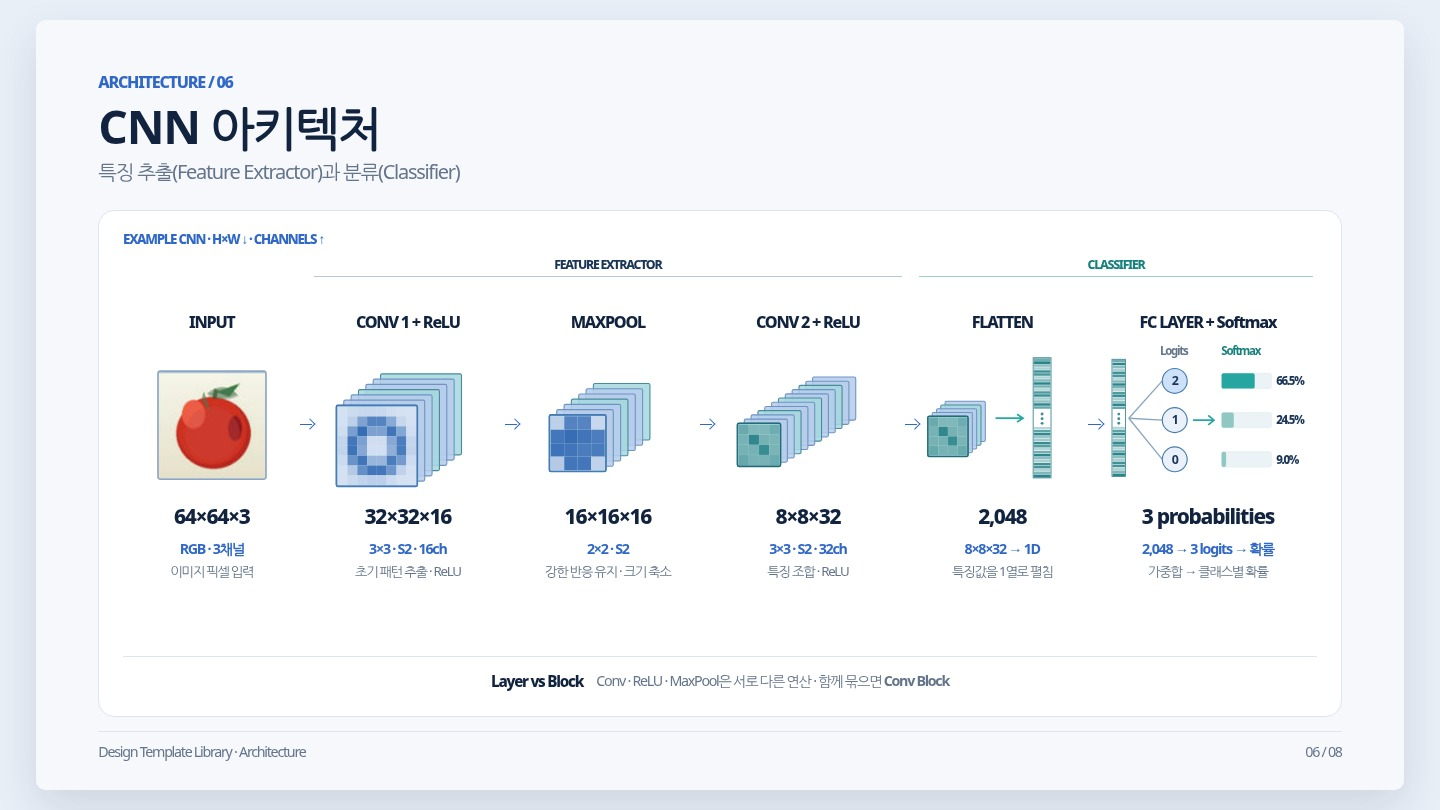
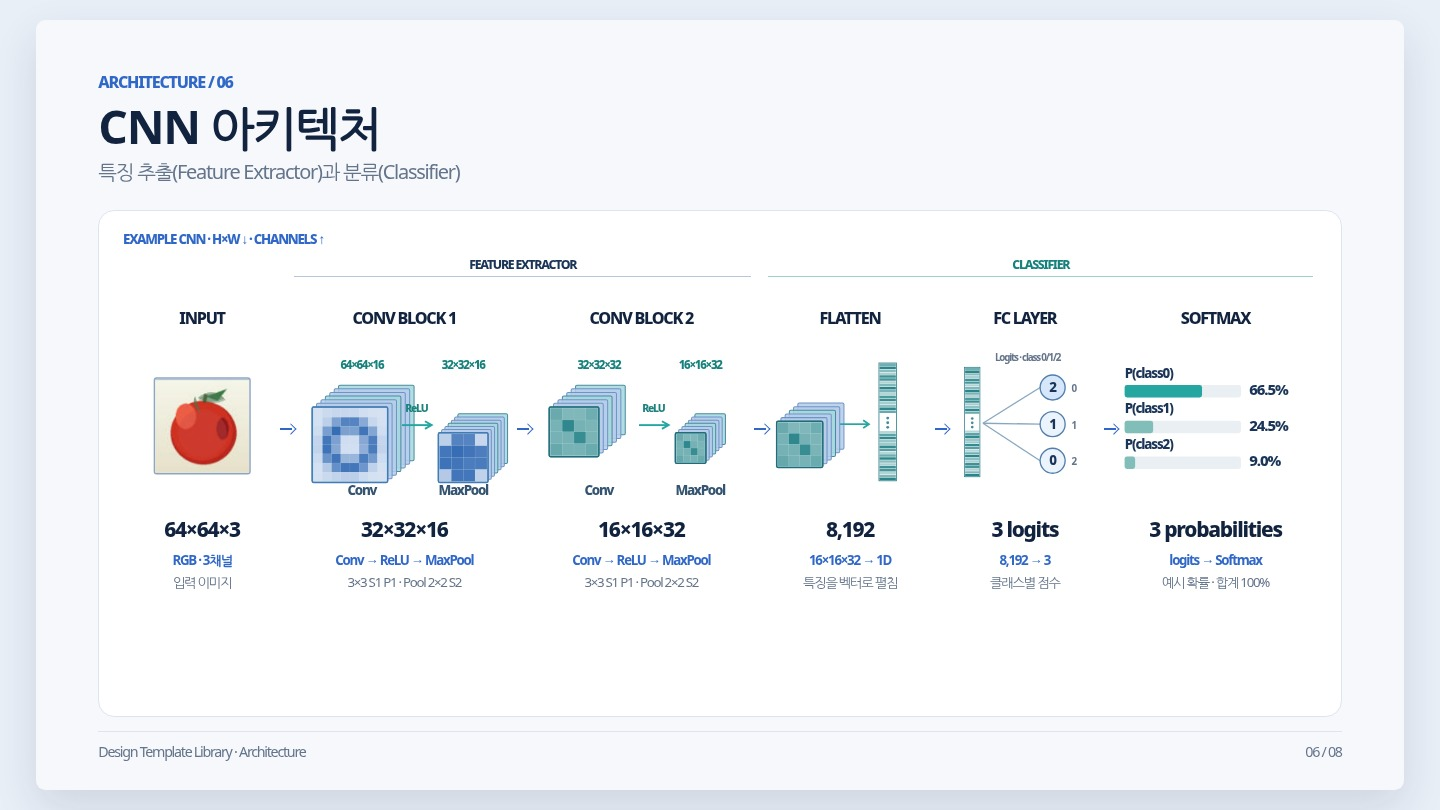
feat(architecture): visualize two Conv-ReLU-MaxPool blocks and class probabilities

diff --git a/templates/html/architecture.html b/templates/html/architecture.html
@@ -16,7 +16,7 @@
 .architecture-slide .arch-eyebrow {font-size:14px; font-weight:800; color:var(--blue);}
 /* Functional partition: input / feature extractor / classifier. */
 .architecture-slide .arch-phase-band {
-  display:grid; grid-template-columns:1.05fr 1.16fr 1.10fr 1.16fr 1.03fr 1.30fr;
+  display:grid; grid-template-columns:1.04fr 1.52fr 1.52fr 1.13fr 1.05fr 1.35fr;
   gap:18px; padding:0 4px; margin:9px 0 -7px;
 }
 .architecture-slide .arch-phase-band span {
@@ -26,56 +26,47 @@
 .architecture-slide .arch-phase-band span::after {
   content:""; display:block; height:1px; margin-top:3px; background:#b7c6db;
 }
-.architecture-slide .arch-phase-band .arch-extractor {grid-column:2/5;}
-.architecture-slide .arch-phase-band .arch-classifier {grid-column:5/7; color:#17817d;}
+.architecture-slide .arch-phase-band .arch-extractor {grid-column:2/4;}
+.architecture-slide .arch-phase-band .arch-classifier {grid-column:4/7; color:#17817d;}
 .architecture-slide .arch-phase-band .arch-classifier::after {background:#9dd2ca;}
 .architecture-slide .arch-pipeline {
-  display:grid; grid-template-columns:1.05fr 1.16fr 1.10fr 1.16fr 1.03fr 1.30fr;
-  gap:18px; align-items:start; margin:18px 0 14px; padding:0 4px; flex:1; min-height:0;
+  display:grid; grid-template-columns:1.04fr 1.52fr 1.52fr 1.13fr 1.05fr 1.35fr;
+  gap:18px; align-items:start; margin:30px 0 10px; padding:0 4px; flex:1; min-height:0;
 }
 .architecture-slide .arch-stage {
   min-width:0; position:relative; display:flex; flex-direction:column;
-  align-items:center; text-align:center; margin-top:25px;
+  align-items:center; text-align:center; margin-top:8px;
 }
 .architecture-slide .arch-stage:not(:last-child)::after {
-  content:""; position:absolute; top:118px; right:-16px; width:13px;
+  content:""; position:absolute; top:128px; right:-16px; width:13px;
   height:1.8px; background:var(--blue);
 }
 .architecture-slide .arch-stage:not(:last-child)::before {
-  content:""; position:absolute; top:114px; right:-18px; width:7px; height:7px;
+  content:""; position:absolute; top:124px; right:-18px; width:7px; height:7px;
   border-top:1.8px solid var(--blue); border-right:1.8px solid var(--blue);
   transform:rotate(45deg);
 }
 .architecture-slide .arch-title {font-size:17px; font-weight:800; color:var(--navy); min-height:26px; white-space:nowrap;}
-.architecture-slide .arch-graphic {display:block; width:100%; height:177px; overflow:visible;}
+.architecture-slide .arch-graphic {display:block; width:100%; height:195px; overflow:visible;}
 .architecture-slide .arch-graphic svg {display:block; width:100%; height:100%;}
 .architecture-slide .arch-shape {font-size:22px; font-weight:800; color:var(--navy); white-space:nowrap; line-height:1.2;}
-.architecture-slide .arch-operation {font-size:15px; font-weight:700; color:var(--blue); margin-top:10px; white-space:nowrap;}
+.architecture-slide .arch-operation {font-size:14px; font-weight:700; color:var(--blue); margin-top:10px; white-space:nowrap;}
 .architecture-slide .arch-explain {font-size:14px; color:var(--muted); margin-top:5px; line-height:1.3; white-space:nowrap;}
-/* Only the relevant lesson note remains; descriptions sit under their own stages. */
-.architecture-slide .arch-block-note {
-  display:flex; align-items:center; justify-content:center; flex-wrap:wrap;
-  column-gap:14px; row-gap:3px;
-  border-top:1px solid var(--border); padding:15px 4px 3px;
-  color:var(--muted); font-size:15px; line-height:1.4;
-}
-.architecture-slide .arch-block-note strong {
-  color:var(--navy); font-size:16px; font-weight:800;
-}
+
+
 @media(max-width:900px) {
+  .architecture-slide.reference-slide {zoom:1; width:100%; height:auto; aspect-ratio:auto; overflow:visible;}
   .architecture-slide .arch-phase-band {display:none;}
   .architecture-slide .content > .ref-card {height:auto; overflow:visible; padding:21px;}
   .architecture-slide .arch-pipeline {grid-template-columns:repeat(3,minmax(0,1fr));gap:24px 13px;margin:20px 0 19px;}
   .architecture-slide .arch-stage:not(:last-child)::before,.architecture-slide .arch-stage:not(:last-child)::after {display:none;}
-  .architecture-slide .arch-graphic {height:150px;}
-  .architecture-slide .arch-title {font-size:16px;}
+  .architecture-slide .arch-graphic {height:155px;}
+  .architecture-slide .arch-title {font-size:15px;}
   .architecture-slide .arch-shape {font-size:20px;}
   .architecture-slide .arch-operation {font-size:14px;}
   .architecture-slide .arch-explain {font-size:13px;}
   .architecture-slide .arch-stage {margin-top:0;}
-  .architecture-slide .arch-block-note {font-size:13px; gap:6px;}
-  .architecture-slide .arch-block-note strong {font-size:14px;}
-}
+  
 @media(max-width:520px) {
   .architecture-slide .content > .ref-card {padding:17px 15px;}
   .architecture-slide .arch-pipeline {grid-template-columns:1fr; gap:10px; margin:13px 0 18px; padding:0;}
@@ -95,9 +86,7 @@
   .architecture-slide .arch-shape {grid-column:2;grid-row:2;font-size:20px;}
   .architecture-slide .arch-operation {grid-column:2;grid-row:3;margin:0;font-size:13px;white-space:normal;}
   .architecture-slide .arch-explain {grid-column:2;grid-row:4;font-size:12px;white-space:normal;}
-  .architecture-slide .arch-block-note {padding:12px 5px 2px; font-size:12px; text-align:center;}
-  .architecture-slide .arch-block-note strong {font-size:13px;}
-}
+  
 @media print {.architecture-slide .content > .ref-card {overflow:hidden;}}
 </style>
 </head>
@@ -113,35 +102,31 @@
       <span class="arch-extractor">FEATURE EXTRACTOR</span>
       <span class="arch-classifier">CLASSIFIER</span>
     </div>
-    <div class="arch-pipeline" aria-label="Input → Conv1 → ReLU → MaxPool → Conv2 → ReLU → Flatten → FC Layer → Softmax">
+    <div class="arch-pipeline" aria-label="Input → Conv Block 1(Conv, ReLU, MaxPool) → Conv Block 2(Conv, ReLU, MaxPool) → Flatten → FC Layer → Softmax">
       <article class="arch-stage" aria-label="Input 단일 RGB 이미지, 64×64×3">
         <div class="arch-title">INPUT</div><div class="arch-graphic" data-art="input"></div>
-        <div class="arch-shape">64×64×3</div><div class="arch-operation">RGB · 3채널</div><div class="arch-explain">이미지 픽셀 입력</div>
+        <div class="arch-shape">64×64×3</div><div class="arch-operation">RGB · 3채널</div><div class="arch-explain">입력 이미지</div>
       </article>
-      <article class="arch-stage" aria-label="Conv1 + ReLU, kernel 3, stride 2, padding 1, 32×32×16">
-        <div class="arch-title" data-group="FEATURE EXTRACTOR">CONV 1 + ReLU</div><div class="arch-graphic" data-art="conv1"></div>
-        <div class="arch-shape">32×32×16</div><div class="arch-operation">3×3 · S2 · 16ch</div><div class="arch-explain">초기 패턴 추출 · ReLU</div>
+      <article class="arch-stage" aria-label="Conv Block 1: Conv 3×3 stride 1 padding 1 16 channels, ReLU, MaxPool 2×2 stride 2. Conv output 64×64×16, Block output 32×32×16">
+        <div class="arch-title" data-group="FEATURE EXTRACTOR">CONV BLOCK 1</div><div class="arch-graphic" data-art="block1"></div>
+        <div class="arch-shape">32×32×16</div><div class="arch-operation">Conv → ReLU → MaxPool</div><div class="arch-explain">3×3 S1 P1 · Pool 2×2 S2</div>
       </article>
-      <article class="arch-stage" aria-label="MaxPool 2×2, stride 2, 16×16×16">
-        <div class="arch-title">MAXPOOL</div><div class="arch-graphic" data-art="pool"></div>
-        <div class="arch-shape">16×16×16</div><div class="arch-operation">2×2 · S2</div><div class="arch-explain">강한 반응 유지 · 크기 축소</div>
+      <article class="arch-stage" aria-label="Conv Block 2: Conv 3×3 stride 1 padding 1 32 channels, ReLU, MaxPool 2×2 stride 2. Conv output 32×32×32, Block output 16×16×32">
+        <div class="arch-title">CONV BLOCK 2</div><div class="arch-graphic" data-art="block2"></div>
+        <div class="arch-shape">16×16×32</div><div class="arch-operation">Conv → ReLU → MaxPool</div><div class="arch-explain">3×3 S1 P1 · Pool 2×2 S2</div>
       </article>
-      <article class="arch-stage" aria-label="Conv2 + ReLU, kernel 3, stride 2, padding 1, 8×8×32">
-        <div class="arch-title">CONV 2 + ReLU</div><div class="arch-graphic" data-art="conv2"></div>
-        <div class="arch-shape">8×8×32</div><div class="arch-operation">3×3 · S2 · 32ch</div><div class="arch-explain">특징 조합 · ReLU</div>
-      </article>
-      <article class="arch-stage" aria-label="Flatten: 8×8×32의 모든 값을 펼쳐 2048차원 1D 벡터 생성">
+      <article class="arch-stage" aria-label="Flatten 16×16×32 특징을 8192차원 벡터로 변환">
         <div class="arch-title" data-group="CLASSIFIER">FLATTEN</div><div class="arch-graphic" data-art="flatten"></div>
-        <div class="arch-shape">2,048</div><div class="arch-operation">8×8×32 → 1D</div><div class="arch-explain">특징값을 1열로 펼침</div>
+        <div class="arch-shape">8,192</div><div class="arch-operation">16×16×32 → 1D</div><div class="arch-explain">특징을 벡터로 펼침</div>
       </article>
-      <article class="arch-stage" aria-label="Fully Connected Layer: 2048차원 벡터를 3개 logits로 변환, Softmax로 각 클래스 확률 산출">
-        <div class="arch-title">FC LAYER + Softmax</div><div class="arch-graphic" data-art="linear"></div>
-        <div class="arch-shape">3 probabilities</div><div class="arch-operation">2,048 → 3 logits → 확률</div><div class="arch-explain">가중합 → 클래스별 확률</div>
+      <article class="arch-stage" aria-label="FC Layer: 8192차원 입력을 3개 logits로 변환. 예시 값 2, 1, 0은 클래스 0, 1, 2에 대응">
+        <div class="arch-title">FC LAYER</div><div class="arch-graphic" data-art="fc"></div>
+        <div class="arch-shape">3 logits</div><div class="arch-operation">8,192 → 3</div><div class="arch-explain">클래스별 점수</div>
       </article>
-    </div>
-    <div class="arch-block-note">
-      <strong>Layer vs Block</strong>
-      <span>Conv · ReLU · MaxPool은 서로 다른 연산 · 함께 묶으면 <b>Conv Block</b></span>
+      <article class="arch-stage" aria-label="Softmax: 3개 logits를 클래스 0, 1, 2 확률로 변환. 예시 출력 P(class0) 66.5퍼센트, P(class1) 24.5퍼센트, P(class2) 9.0퍼센트">
+        <div class="arch-title">SOFTMAX</div><div class="arch-graphic" data-art="softmax"></div>
+        <div class="arch-shape">3 probabilities</div><div class="arch-operation">logits → Softmax</div><div class="arch-explain">예시 확률 · 합계 100%</div>
+      </article>
     </div>
   </section></div>
   <footer class="footer"><span>Design Template Library · Architecture</span><span>06 / 08</span></footer>
@@ -159,7 +144,8 @@
     return node;
   }
   function makeSvg(container, label) {
-    const viewBox=container.dataset.art==='linear'?'0 0 220 160':'0 0 170 160';
+    const viewBox=['block1','block2'].includes(container.dataset.art)?'0 0 230 165':
+      container.dataset.art==='softmax'?'0 0 235 165':'0 0 170 165';
     const svg=el('svg',{viewBox,role:'img','aria-label':label},container);
     const title=el('title',{},svg); title.textContent=label;
     return svg;
@@ -208,7 +194,7 @@
       fill:'none',stroke:'#317d8d','stroke-width':.85},svg);
   }
   /* Long feature vectors use an explicit omission break;
-     the semantic dimension is 8*8*32 = 2,048, not the number of drawn cells. */
+     the semantic dimension is 16*16*32 = 8,192, not the number of drawn cells. */
   function drawLongVector(svg,x,y,width=17) {
     const cellH=3.05;
     for(let i=0;i<34;i++) {
@@ -223,6 +209,27 @@
     el('rect',{x:x-.6,y:y-.6,width:width+1.2,height:122.5,
       fill:'none',stroke:'#317d8d','stroke-width':.85},svg);
   }
+  function drawBlock(svg,{convSize,poolSize,channels,convShape,poolShape,variant,data}) {
+    // S1/P1 convolution preserves H,W; only max pooling halves H,W.
+    const sx=19, sy=65;
+    drawStack(svg,{x:sx,y:sy,size:convSize,n:7,dx:4.6,dy:3.8,data,variant});
+    const px=151,py=92;
+    drawStack(svg,{x:px,y:py,size:poolSize,n:7,dx:3.4,dy:3.3,
+      data:variant==='low'?pooled:deep,variant});
+    el('path',{d:'M113 84 H143',fill:'none',stroke:'#26A6A1','stroke-width':2},svg);
+    el('path',{d:'M137 80 L144 84 L137 88',fill:'none',stroke:'#26A6A1','stroke-width':2},svg);
+    const mid=el('text',{x:128,y:70,fill:'#1B817c','font-size':11,'font-weight':800,
+      'text-anchor':'middle'},svg);
+    mid.textContent='ReLU';
+    [[71,'Conv'],[177,'MaxPool']].forEach(([x,label])=>{
+      const t=el('text',{x,y:157,fill:'#355471','font-size':14,'font-weight':800,
+        'text-anchor':'middle'},svg);t.textContent=label;
+    });
+    [[71,convShape],[177,poolShape]].forEach(([x,label])=>{
+      const t=el('text',{x,y:25,fill:'#17817d','font-size':12,'font-weight':800,
+        'text-anchor':'middle'},svg);t.textContent=label;
+    });
+  }
   const handlers={
     input(svg) {
       el('rect',{x:31,y:31,width:108,height:108,rx:2.5,fill:'#f2f6fa',stroke:'#8fa6c3','stroke-width':1.7},svg);
@@ -231,51 +238,47 @@
       el('path',{d:'M83 70 Q72 59 77 51 M80 53 Q97 40 110 54 Q94 62 80 53Z',fill:'#487752','fill-opacity':.4},svg);
       el('circle',{cx:85,cy:93,r:27,fill:'#cc4d47','fill-opacity':.18},svg);
     },
-    conv1(svg) {drawStack(svg,{x:17,y:66,size:77,n:7,dx:7,dy:5,data:activations,variant:'low'});},
-    pool(svg) {drawStack(svg,{x:29,y:75,size:54,n:7,dx:7,dy:5,data:pooled,variant:'low'});},
-    conv2(svg) {drawStack(svg,{x:18,y:83,size:41,n:12,dx:6.5,dy:4,data:deep,variant:'deep'});},
+    block1(svg) {drawBlock(svg,{convSize:79,poolSize:52,channels:16,convShape:'64×64×16',poolShape:'32×32×16',variant:'low',data:activations});},
+    block2(svg) {drawBlock(svg,{convSize:52,poolSize:32,channels:32,convShape:'32×32×32',poolShape:'16×16×32',variant:'deep',data:deep});},
     flatten(svg) {
-      drawStack(svg,{x:9,y:76,size:41,n:5,dx:4.4,dy:3.8,data:deep,variant:'deep'});
-      el('path',{d:'M78 78 H105',stroke:colors.teal,'stroke-width':1.8,fill:'none'},svg);
-      el('path',{d:'M100 74 L106 78 L100 82',fill:'none',stroke:colors.teal,'stroke-width':1.8},svg);
-      drawLongVector(svg,117,17,17);
+      drawStack(svg,{x:9,y:80,size:48,n:6,dx:4.4,dy:3.8,data:deep,variant:'deep'});
+      el('path',{d:'M75 83 H104',stroke:colors.teal,'stroke-width':1.8,fill:'none'},svg);
+      el('path',{d:'M99 79 L105 83 L99 87',fill:'none',stroke:colors.teal,'stroke-width':1.8},svg);
+      drawLongVector(svg,116,20,17);
     },
-    linear(svg) {
-      // The 2,048D input is drawn schematically with an omission break.
-      drawLongVector(svg,10,17,13);
-      const ys=[39,80,121];
-      const logits=[2,1,0];
-      const exponentials=logits.map(z=>Math.exp(z));
-      const total=exponentials.reduce((a,b)=>a+b,0);
-      const probabilities=exponentials.map(e=>e/total);
-      const label=el('text',{x:74,y:12,'text-anchor':'middle',
-        fill:'#64748B','font-size':12,'font-weight':700},svg);
-      label.textContent='Logits';
+    fc(svg) {
+      drawLongVector(svg,18,20,16);
+      const ys=[42,83,124];
       ys.forEach((y,i)=>{
-        el('path',{d:`M27 78 L62 ${y}`,stroke:'#8aa7c0',
-          'stroke-width':1.4,fill:'none'},svg);
-        el('circle',{cx:75,cy:y,r:13,fill:i===0?'#cee1fa':'#eaf1fb',
-          stroke:'#497cac','stroke-width':1.2},svg);
-        const t=el('text',{x:75,y:y+4.5,fill:'#1B3558',
-          'text-anchor':'middle','font-size':13,'font-weight':700},svg);
-        t.textContent=`${logits[i]}`;
+        el('path',{d:`M38 82 L102 ${y}`,stroke:'#8aa7c0','stroke-width':1.45,fill:'none'},svg);
+        el('circle',{cx:116,cy:y,r:14,fill:i===0?'#d6e6fb':'#ebf3fc',
+          stroke:'#527dae','stroke-width':1.5},svg);
+        const num=el('text',{x:116,y:y+5,fill:'#1B3558','text-anchor':'middle',
+          'font-size':15,'font-weight':800},svg);
+        num.textContent=String([2,1,0][i]);
+        const lbl=el('text',{x:137,y:y+5,fill:'#64748B',
+          'font-size':11,'font-weight':700},svg);
+        lbl.textContent=String(i);
       });
-      el('path',{d:'M94 80 H115',stroke:'#26A6A1',
-        'stroke-width':1.8,fill:'none'},svg);
-      el('path',{d:'M110 75 L116 80 L110 85',
-        stroke:'#26A6A1','stroke-width':1.8,fill:'none'},svg);
-      const op=el('text',{x:144,y:12,'text-anchor':'middle',
-        fill:'#17817d','font-size':12,'font-weight':700},svg);
-      op.textContent='Softmax';
-      probabilities.forEach((p,i)=>{
+      const a=el('text',{x:88,y:12,'text-anchor':'middle',fill:'#64748B',
+        'font-size':11,'font-weight':700},svg);
+      a.textContent='Logits · class 0/1/2';
+    },
+    softmax(svg) {
+      const logits=[2,1,0];
+      const e=logits.map(Math.exp);
+      const total=e.reduce((a,b)=>a+b,0);
+      const probabilities=e.map(x=>x/total);
+      const ys=[39,82,125];
+      probabilities.forEach((prob,i)=>{
         const y=ys[i];
-        el('rect',{x:124,y:y-8,width:52,height:16,rx:2,
-          fill:'#ecf3f6',stroke:'#dce6eb','stroke-width':.5},svg);
-        el('rect',{x:124,y:y-8,width:52*p,height:16,rx:2,
-          fill:i===0?'#26A6A1':'#91c7c2'},svg);
-        const text=el('text',{x:181,y:y+4.5,fill:'#1B3558',
-          'font-size':12,'font-weight':800},svg);
-        text.textContent=`${(p*100).toFixed(1)}%`;
+        const label=el('text',{x:8,y:y-12,fill:'#1B3558','font-size':16,'font-weight':800},svg);
+        label.textContent=`P(class${i})`;
+        el('rect',{x:8,y:y-3,width:140,height:15,rx:3,fill:'#e9eff3'},svg);
+        el('rect',{x:8,y:y-3,width:140*prob,height:15,rx:3,
+          fill:i===0?'#26A6A1':'#82beb9'},svg);
+        const value=el('text',{x:158,y:y+9,fill:'#1B3558','font-size':18,'font-weight':800},svg);
+        value.textContent=`${(prob*100).toFixed(1)}%`;
       });
     }
   };

diff --git a/TEMPLATE_CATALOG.md b/TEMPLATE_CATALOG.md
@@ -1,6 +1,6 @@
 # Design Template Catalog · 8 HTML Reference Patterns
 
-**2026-10-21 Concept / Architecture 개선:** Concept은 **왼쪽 흰색 외부 카드 섹션을 유지**하면서 사진 자체에 붙은 추가 배경·테두리·그림자를 제거했습니다. 사진의 80×80 리샘플 결과에서 선택된 실제 4×4 픽셀값을 Canvas로 가져오며, 확대 셀·RGB·HEX 값이 동일한 이미지 데이터에 연결됩니다. Architecture는 **단일 RGB 이미지(64×64×3)** → Conv1 **S2로 공간 축소·16채널(32×32×16)** → MaxPool **채널 유지·공간 축소(16×16×16)** → Conv2 **S2로 공간 축소·32채널(8×8×32)** → Flatten **1D 벡터(2,048)** → FC Layer **3 logits** → Softmax **3개 클래스 확률**을 논문형 도식으로 표현합니다. Softmax 확률값은 예시 logits [2, 1, 0]에서 계산한 값이며 실제 사진에 대한 모델 예측 결과는 아닙니다. 단계별 Shape 아래에 연산·역할을 간결하게 설명하고, Conv·ReLU·MaxPool의 조합을 하나의 Conv Block이라 부를 수 있음을 하단 한 줄로 구분합니다. Feature Map·Flatten 그림은 개념 모식도입니다. Chromium에서 1500×950 / 1366×768 / 1280×720 / 390×844 브라우저 검증 및 [검증 JSON](previews/review/concept-architecture-validation.json)과 두 최신 프리뷰를 갱신했습니다.
+**2026-10-21 Concept / Architecture 개선:** Concept은 **왼쪽 흰색 외부 카드 섹션을 유지**하면서 사진 자체에 붙은 추가 배경·테두리·그림자를 제거했습니다. 사진의 80×80 리샘플 결과에서 선택된 실제 4×4 픽셀값을 Canvas로 가져오며, 확대 셀·RGB·HEX 값이 동일한 이미지 데이터에 연결됩니다. Architecture는 **단일 RGB 이미지(64×64×3)** → **Conv Block 1** [Conv 3×3 S1 P1 (64×64×16) → ReLU → MaxPool 2×2 S2 (32×32×16)] → **Conv Block 2** [Conv 3×3 S1 P1 (32×32×32) → ReLU → MaxPool 2×2 S2 (16×16×32)] → **Flatten 8,192D** → **FC Layer 3 logits** → **Softmax** 확률 `P(class0)`, `P(class1)`, `P(class2)`로 이어지는 반복 CNN 블록을 논문형 모식도로 표현합니다. Conv는 이 예제에서 H·W를 유지하며 출력 채널을 늘리고, MaxPool이 공간 크기를 절반으로 줄입니다. Softmax의 확률(66.5%·24.5%·9.0%)은 예시 logits [2, 1, 0]에서 계산한 값으로 실제 이미지에 대한 예측이 아닙니다. 중복된 하단 설명을 제거하고 각 단계에 연산과 Shape를 직접 표기했습니다. Chromium에서 1500×950 / 1366×768 / 1280×720 / 390×844 브라우저 검증 및 [검증 JSON](previews/review/concept-architecture-validation.json)과 두 최신 프리뷰를 갱신했습니다.
 
 **2026-10-21 검토 상태:** 8종 HTML 브라우저 검증 완료 · 05 문장 단위 줄바꿈 및 공통 어절 보호 반영 · 디자인 승인 대기. [유형별 결과](docs/REFERENCE_REVIEW_2026-10-21.md) · [Before / After](previews/review/README.md)
 
